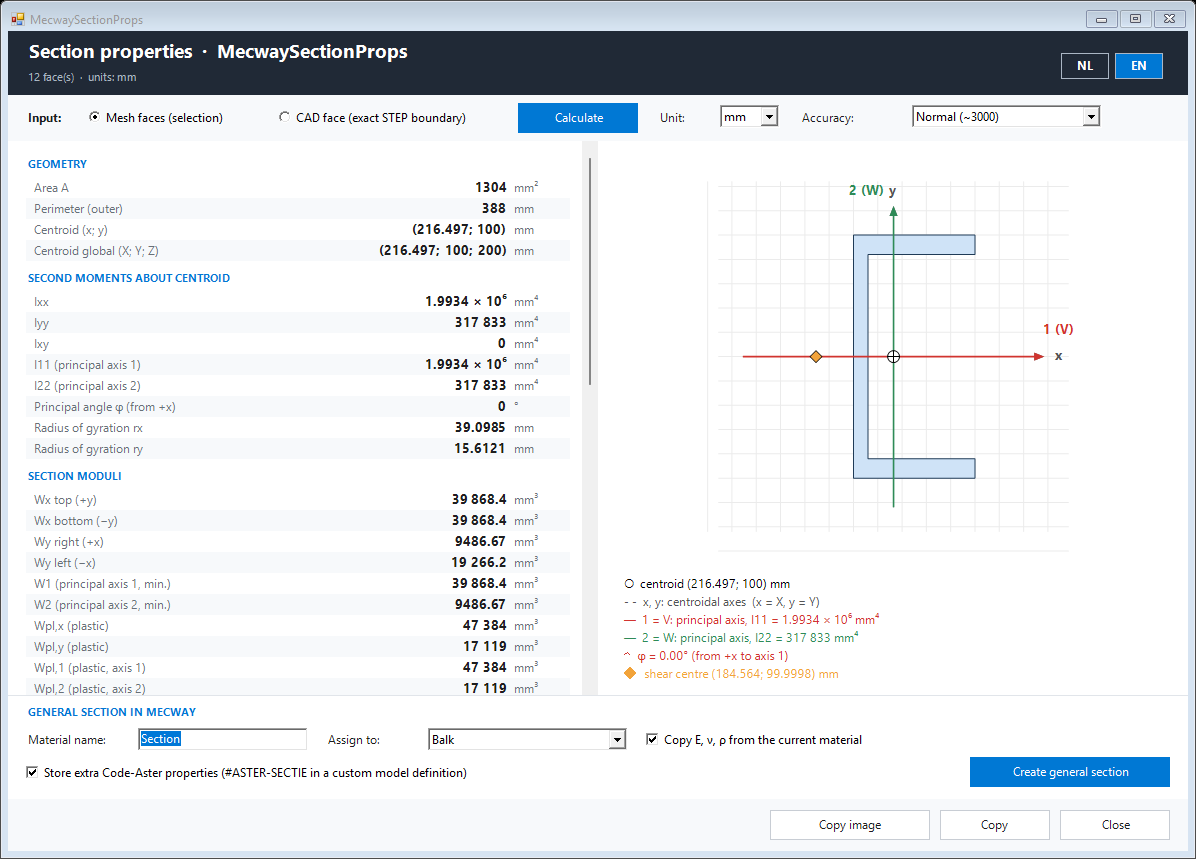
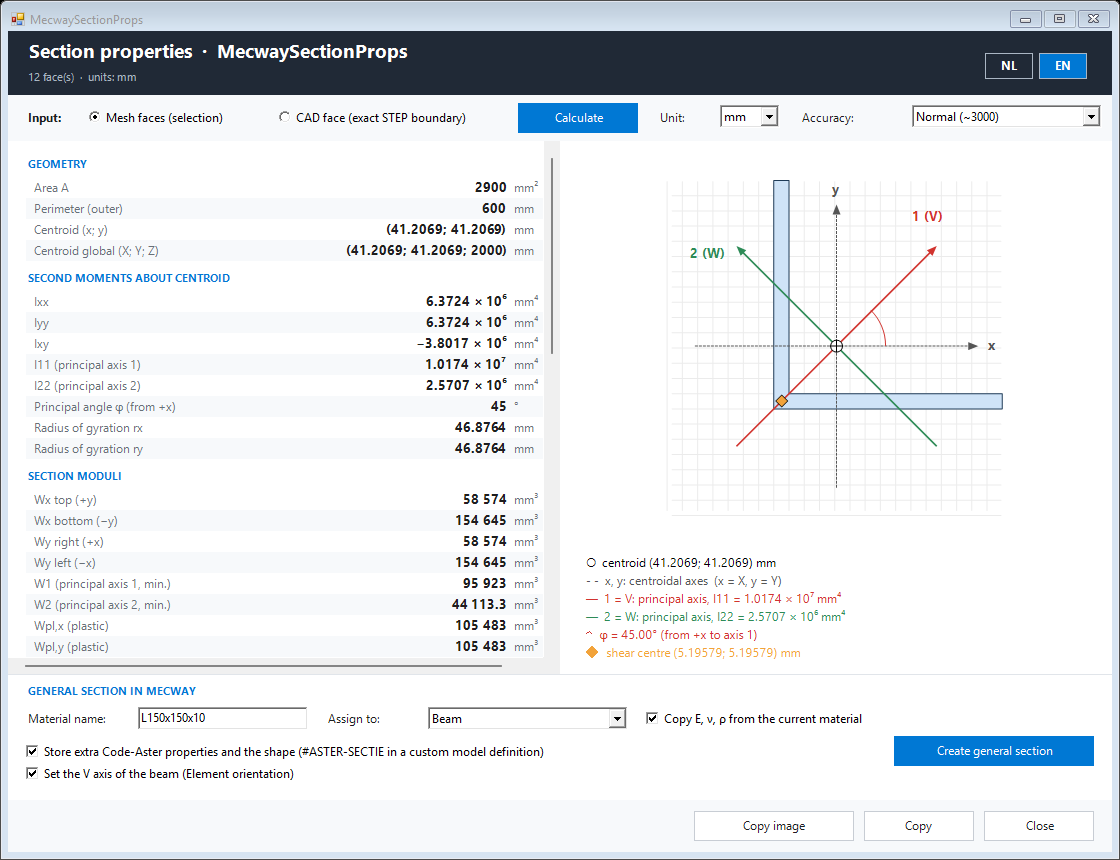
Window images in Dutch and English, advice on open sections
The images are made offscreen with tools/gui_cap.py from an own example, so
that they can be made again without Mecway. The guide now shows the window,
names the new option and advises POU_D_TG for open sections, as measured
against a solid model.

diff --git a/tools/gui_cap.py b/tools/gui_cap.py
@@ -1,0 +1,77 @@
+# -*- coding: utf-8 -*-
+# Copyright (C) 2026 trednuK
+# This Source Code Form is subject to the terms of the Mozilla Public
+# License, v. 2.0. If a copy of the MPL was not distributed with this
+# file, You can obtain one at https://mozilla.org/MPL/2.0/.
+# gui_cap.py
+# The window of the tool as a PNG for the documentation, without Mecway: a
+# fake mw and the results of an equal angle 150 x 150 x 10, offscreen.
+#
+#   python tools/gui_cap_data.py <results.json>        (numpy and scipy)
+#   powershell -ExecutionPolicy Bypass -File tools/run_ipy.ps1 \
+#       -Script tools/gui_cap.py -ScriptArgs <repo>,<results.json>,<out.png>,nl
+import io
+import json
+import os
+import sys
+
+repo, data, out = sys.argv[1], sys.argv[2], sys.argv[3]
+lang = sys.argv[4] if len(sys.argv) > 4 else "en"
+sys.path.insert(0, os.path.join(repo, "Scripts"))
+import section_gui as gui   # noqa: E402
+import section_utils as su  # noqa: E402
+
+su.settings = lambda: {"language": lang}
+gui._lang = lambda: lang
+
+
+class FakeMw(object):
+    def components(self):
+        return ["Beam"]
+
+    def material(self, comp):
+        return "Steel"
+
+    def component_elements(self, comp):
+        return [1]
+
+    def element_shape(self, eid):
+        return "line2"
+
+
+class Direct(object):
+    def call(self, f):
+        return f()
+
+
+with io.open(data, encoding="utf-8") as f:
+    res = json.load(f)
+window = gui._Window(FakeMw(), Direct())
+D, F = window.D, window.F
+form = window.form
+form.StartPosition = F.FormStartPosition.Manual
+form.Location = D.Point(-4000, -4000)
+form.Size = D.Size(1120, 860)
+window.res = res
+window.plane = {"normal": (0.0, 0.0, 1.0), "u": (1.0, 0.0, 0.0),
+                "v": (0.0, 1.0, 0.0), "offset": 2.0, "size": 0.2,
+                "deviation": 0.0}
+window.source = ("faces", 12)
+window.component = "Beam"
+window.name = u"L150x150x10"
+
+
+def capture(sender, e):
+    window.components = [("Beam", "Steel", True)]
+    window.render()
+    F.Application.DoEvents()
+    bmp = D.Bitmap(form.Width, form.Height)
+    form.DrawToBitmap(bmp, D.Rectangle(0, 0, form.Width, form.Height))
+    bmp.Save(out)
+    bmp.Dispose()
+    form.Close()
+
+
+form.Shown += capture
+F.Application.Run(form)
+print("saved " + out)

diff --git a/tools/gui_cap_data.py b/tools/gui_cap_data.py
@@ -1,0 +1,23 @@
+# -*- coding: utf-8 -*-
+# Copyright (C) 2026 trednuK
+# This Source Code Form is subject to the terms of the Mozilla Public
+# License, v. 2.0. If a copy of the MPL was not distributed with this
+# file, You can obtain one at https://mozilla.org/MPL/2.0/.
+# gui_cap_data.py
+# Results of an equal angle 150 x 150 x 10 for tools/gui_cap.py.
+#
+#   python tools/gui_cap_data.py <results.json>
+import json
+import os
+import sys
+
+sys.path.insert(0, os.path.join(os.path.dirname(os.path.abspath(__file__)),
+                                "..", "Scripts"))
+import section_analysis  # noqa: E402
+
+T, A = 0.010, 0.150
+res = section_analysis.run_analysis(
+    {"loops": [[[0.0, 0.0], [A, 0.0], [A, T], [T, T], [T, A], [0.0, A]]],
+     "n_target": 3000})
+with open(sys.argv[1], "w") as f:
+    json.dump(section_analysis._jsonable(res), f, indent=1)

diff --git a/docs/MecwaySectionProps.md b/docs/MecwaySectionProps.md
@@ -134,6 +134,8 @@ vlakjes er staan. Een model met een eigen mesh wordt nooit aangeraakt.
 
 ## 3. Wat het venster toont
 
+![Het venster met een hoekstaal 150 x 150 x 10](images/window_nl.png)
+
 **Assen.** De doorsnede wordt bekeken van buiten het volume (zoals AreaPropsForAlibre):
 de normaal n wijst uit de elementen, y is de globale Y-as geprojecteerd op het vlak (of
 −Z/+Z bij een vlak loodrecht op Y) en x = y × n. De oorsprong is die van het model, dus het
@@ -168,6 +170,8 @@ Onderaan het venster:
   wordt niet opgeslagen of heropend; sla het zelf op (MecwayAsterBridge doet dat ook bij
   elke run). Klik eenmaal in de boom als het nieuwe materiaal (onder *Unused
   Materials*) of de *custom model definition* nog niet zichtbaar is.
+- **V-as van de balk zetten**: geeft de balken van de component de juiste *Element
+  orientation* (zie hieronder).
 
 Het materiaal krijgt een *General section* met:
 

diff --git a/docs/en/MecwaySectionProps.md b/docs/en/MecwaySectionProps.md
@@ -132,6 +132,8 @@ own mesh is never touched.
 
 ## 3. What the window shows
 
+![The window with an angle 150 x 150 x 10](../images/window_en.png)
+
 **Axes.** The section is seen from outside the solid (as in AreaPropsForAlibre): the
 normal n points out of the elements, y is the global Y axis projected onto the plane (or
 −Z/+Z for a face normal to Y) and x = y × n. The origin is the model origin, so the
@@ -165,6 +167,8 @@ At the bottom of the window:
   saved or reopened; save it yourself (MecwayAsterBridge also does at every run). Click once
   in the tree if the new material (under *Unused Materials*) or the *custom model
   definition* is not shown yet.
+- **Set the V axis of the beam**: gives the beams of the component the right *Element
+  orientation* (see below).
 
 The material gets a *General section* with:
 

diff --git a/CHANGELOG.md b/CHANGELOG.md
@@ -8,6 +8,8 @@
   Skew beams and beams with an orientation of their own are left alone, with a note.
 - **Beams against the normal** get their data mirrored in W (`EZ`, `IYR2`, recovery point,
   outline), so that the section is right in both directions.
+- **Documentation**: new window images in Dutch and English, made with `tools/gui_cap.py`
+  without Mecway; advice to use `POU_D_TG` for open sections in Code-Aster.
 - **`** SECTIE-RICHTING` line**: the V axis and direction a section belongs to, for
   MecwayAsterBridge to warn about a beam that no longer fits.
 

diff --git a/AGENTS.md b/AGENTS.md
@@ -63,6 +63,9 @@ python tests/test_section_analysis.py
 powershell -ExecutionPolicy Bypass -File tools/run_ipy.ps1 -Script tests/test_section_mecway.py
 ```
 
+`tools/gui_cap.py` makes the window images of `docs/images/` offscreen, without Mecway, from
+an own example (`tools/gui_cap_data.py`).
+
 A real run is only possible in Mecway (computer use on the open instance; never on the
 user's own model files). `WorkDir/` and `Scripts/section_settings.json` are local (not
 in git).
